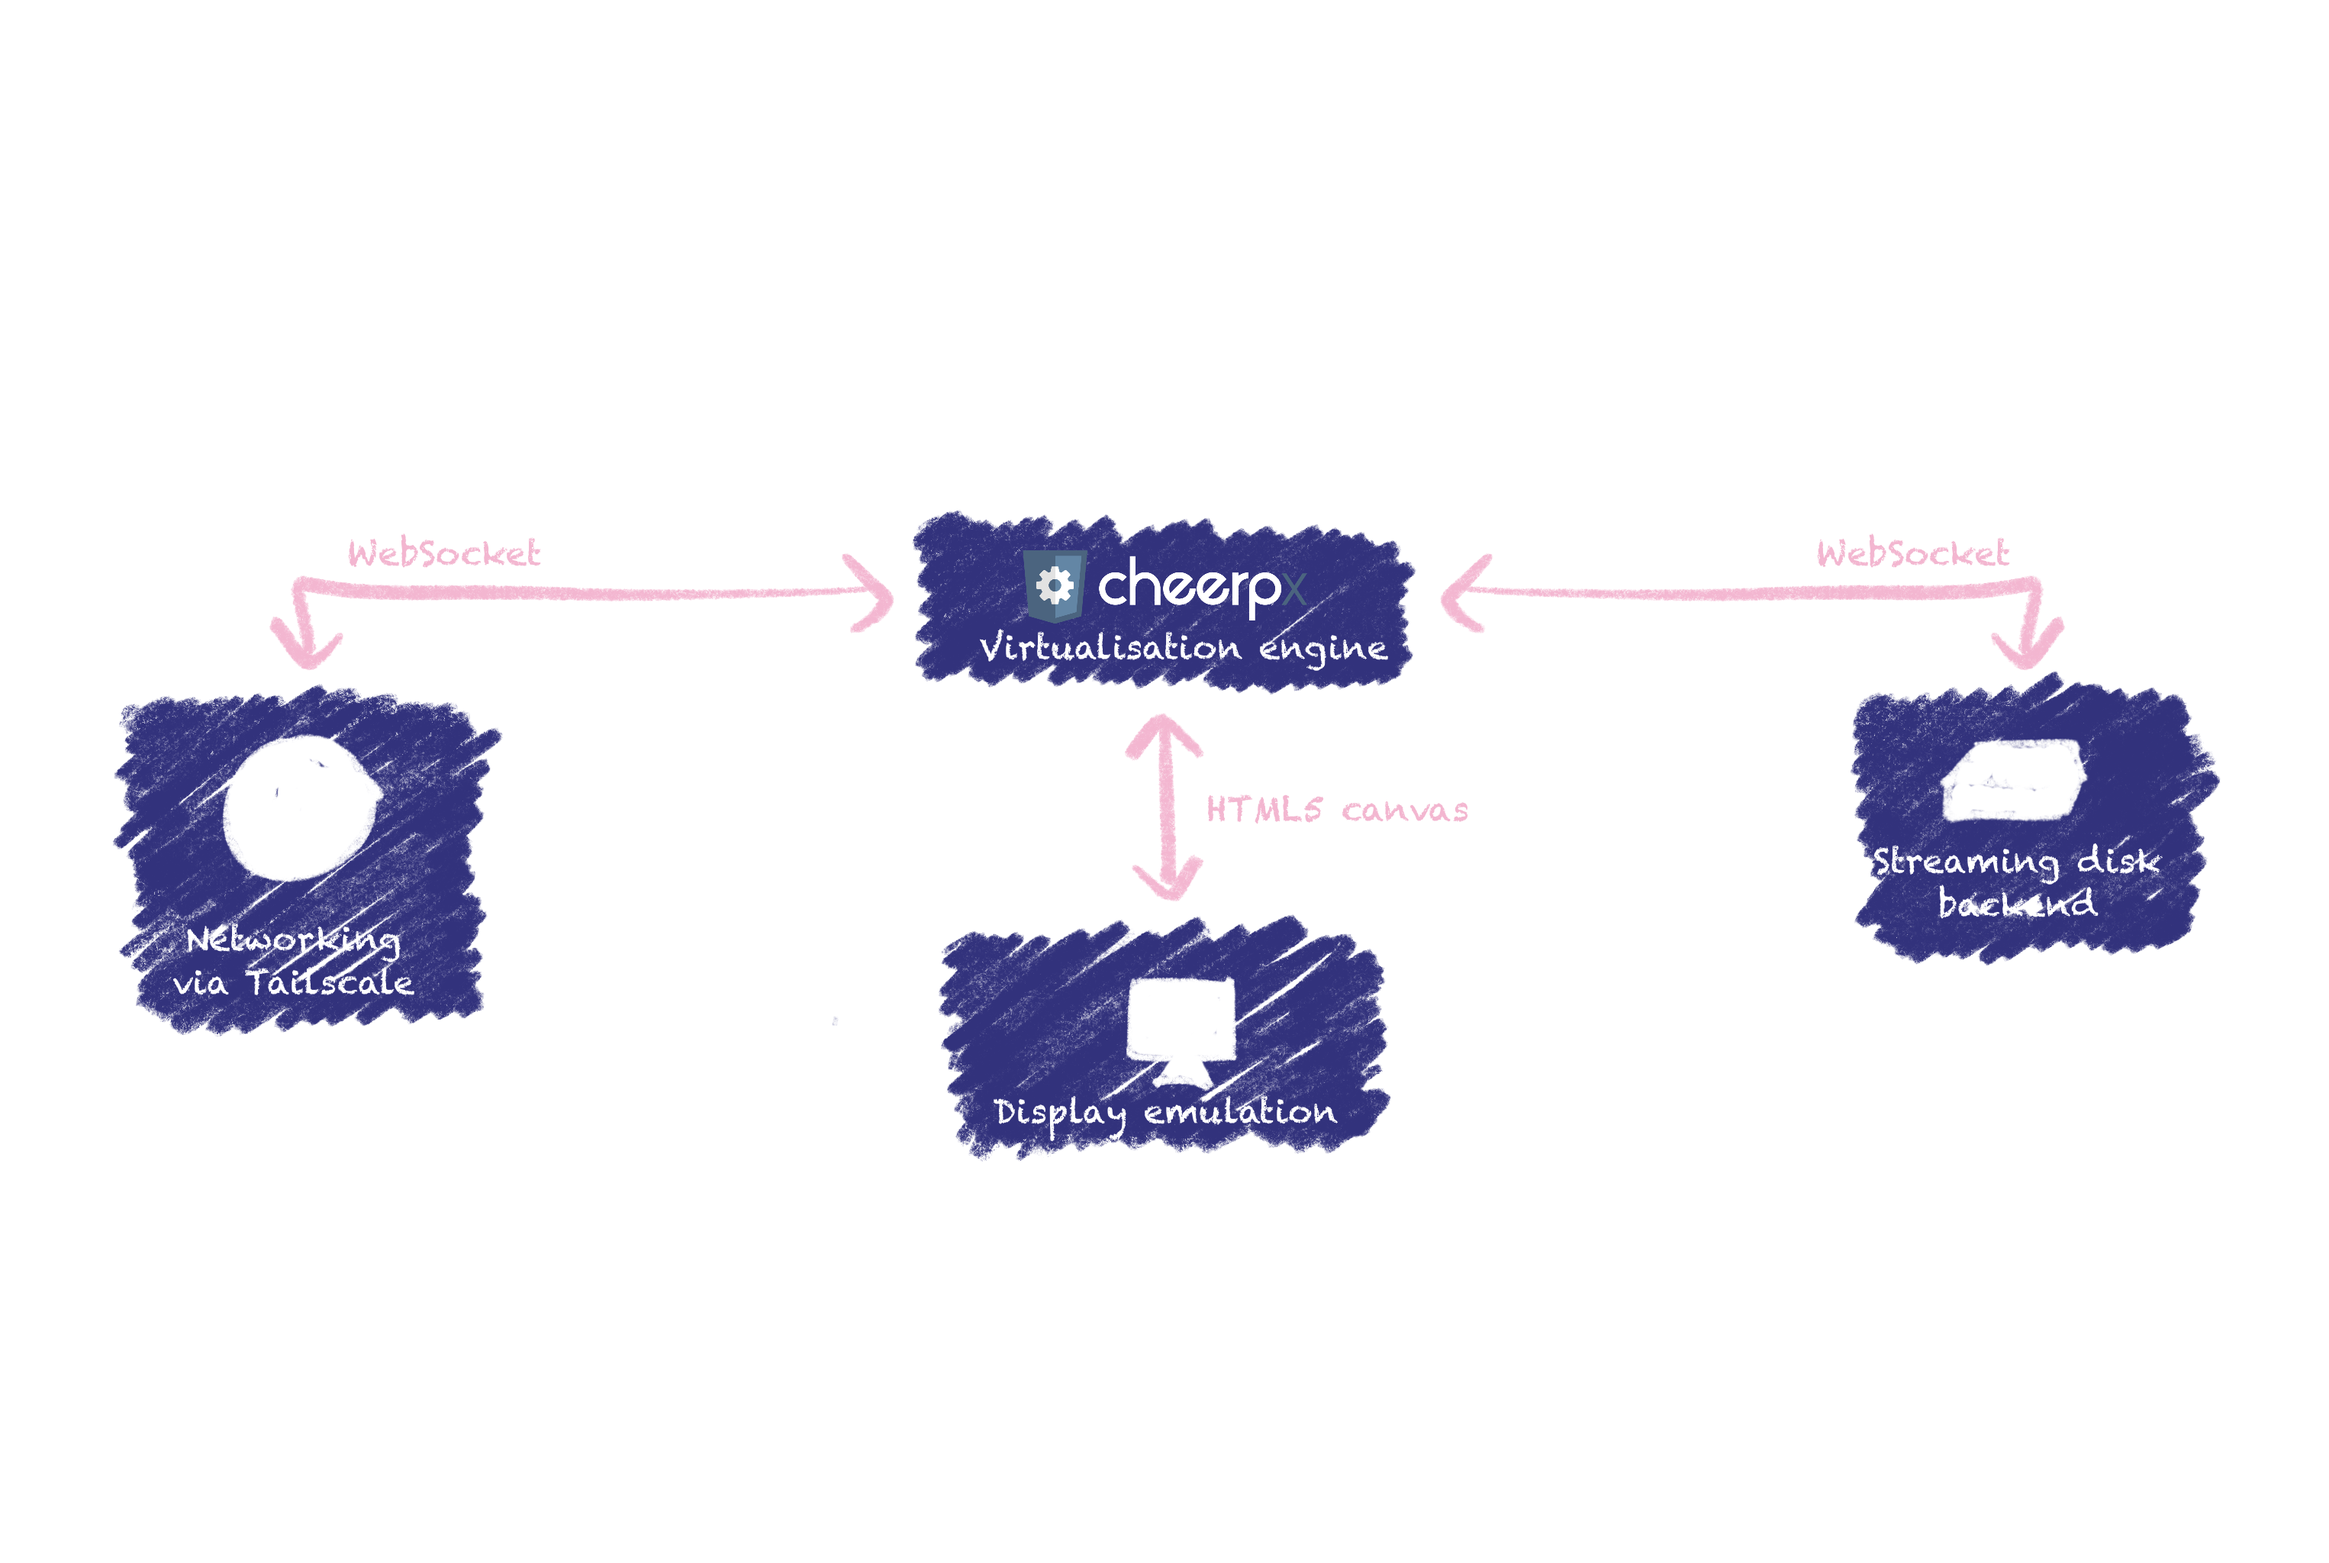
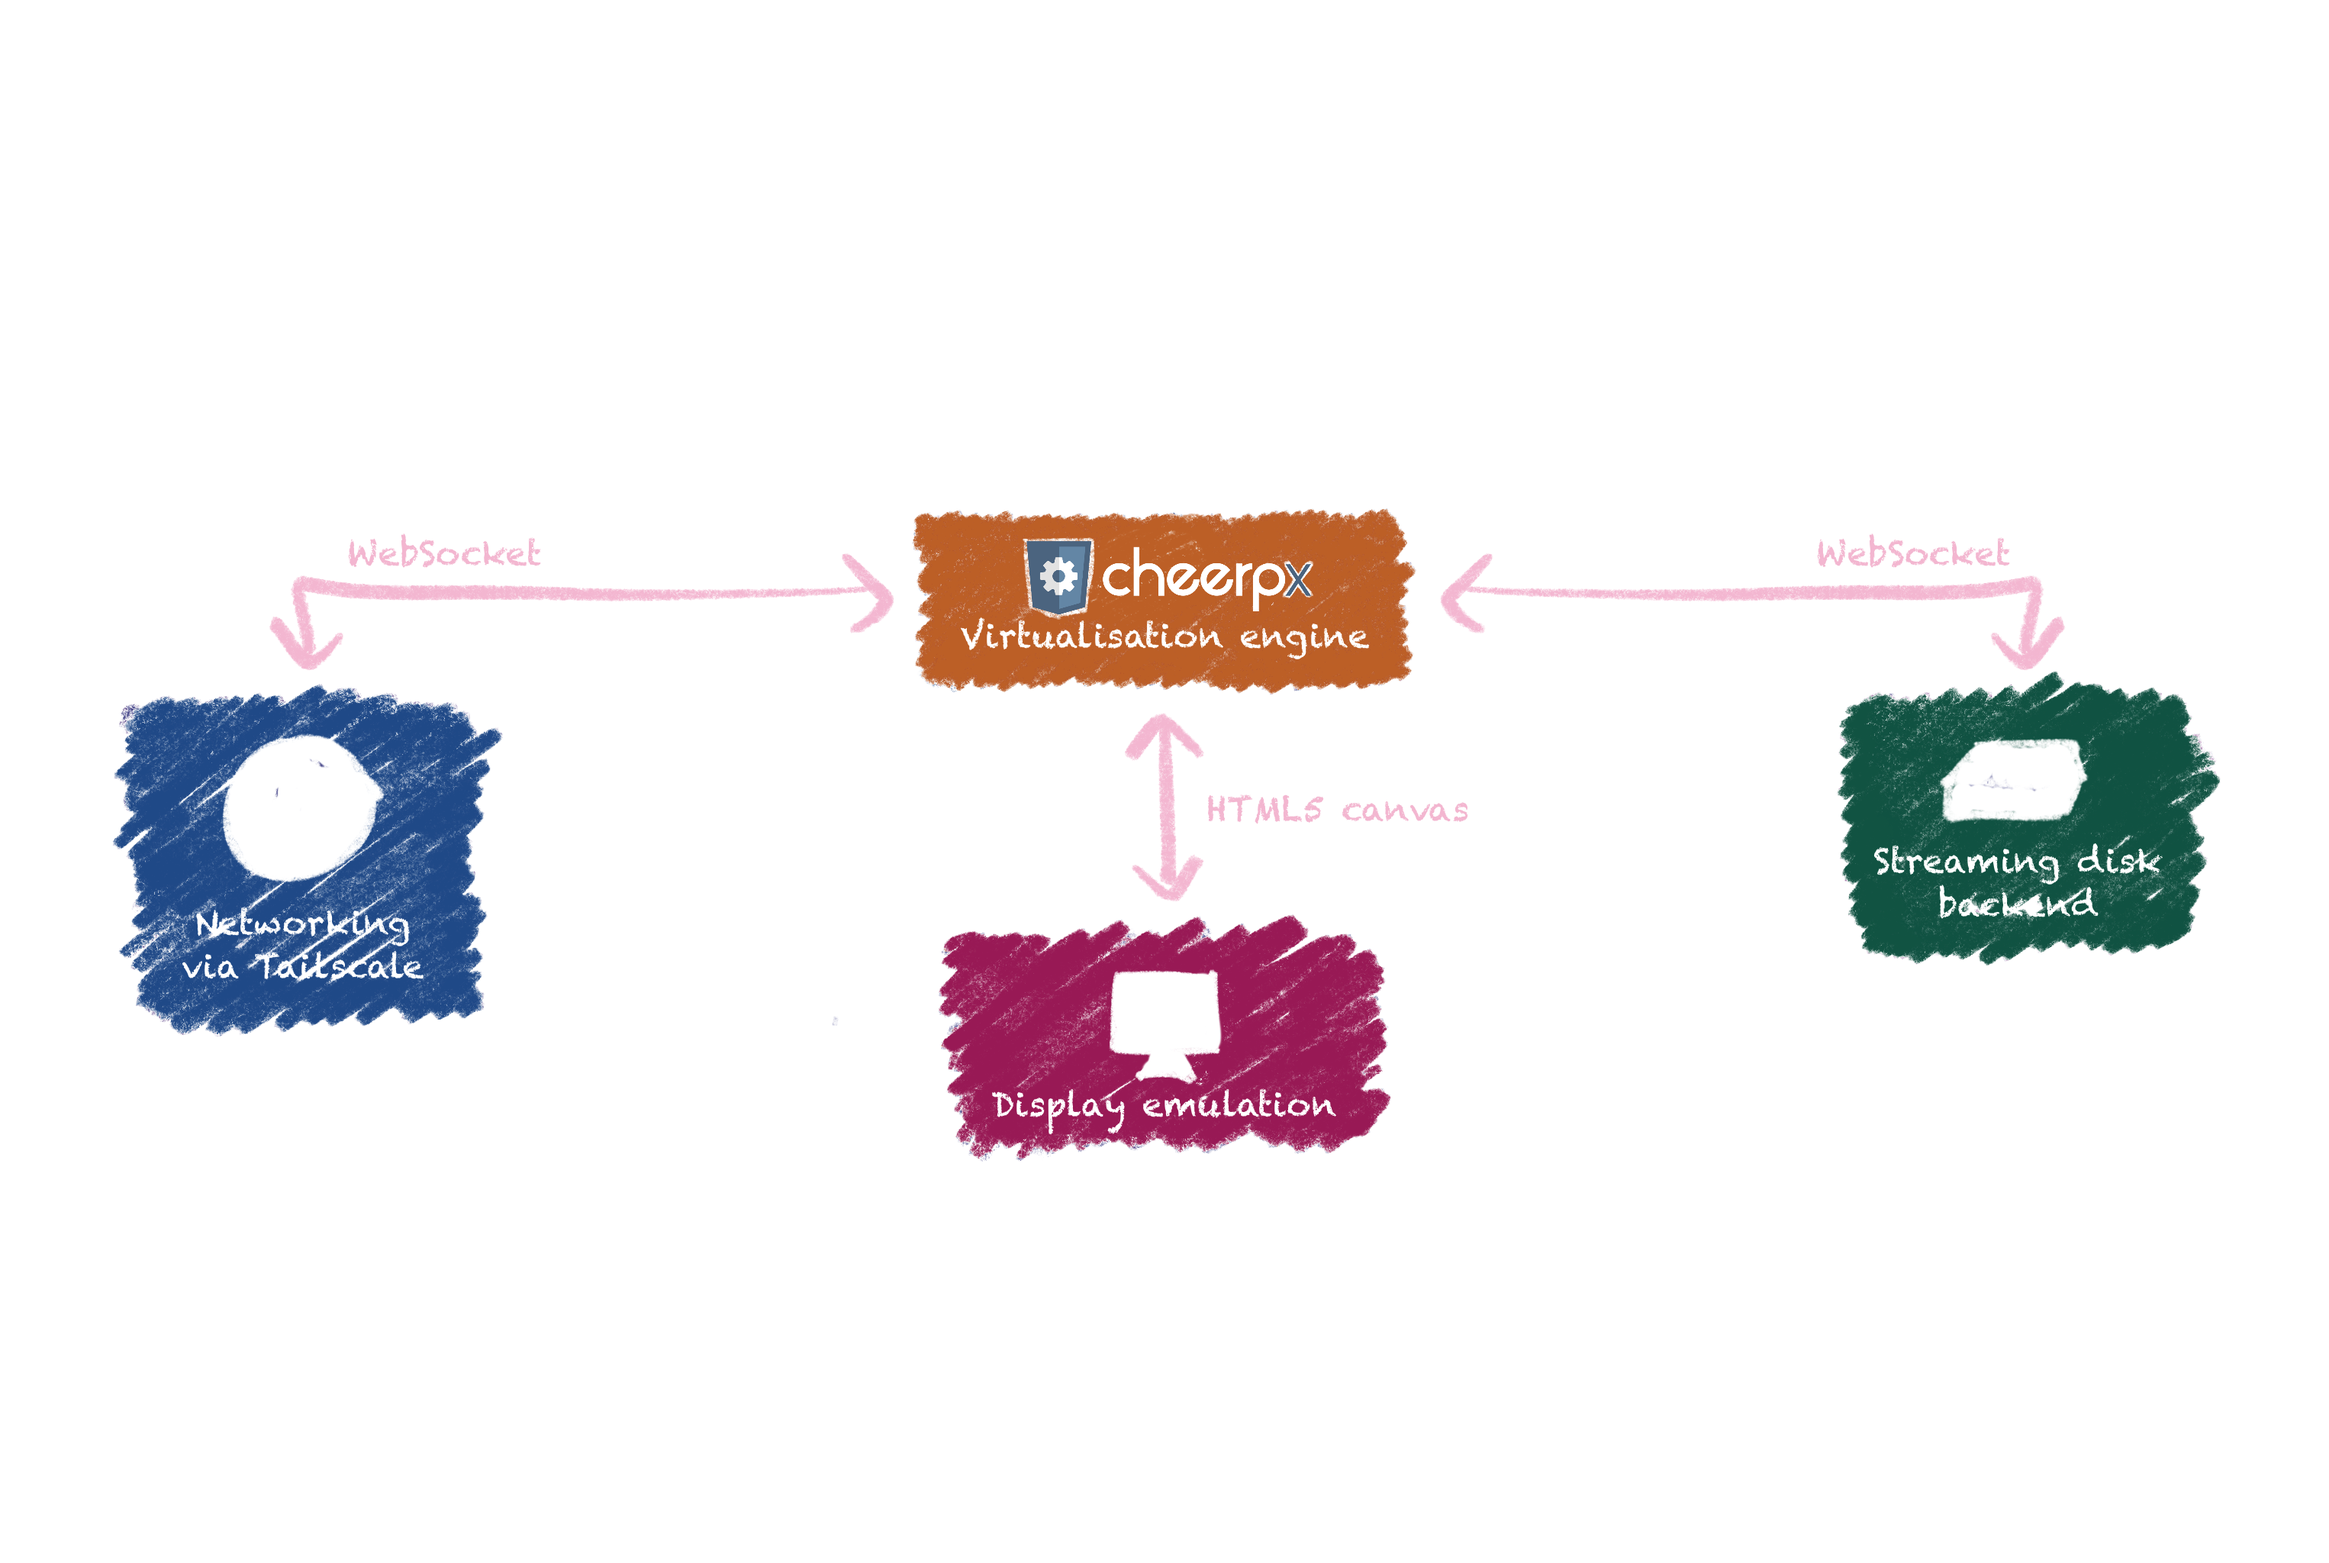
WebVM2: Add diagrams for all components

diff --git a/content/blog/webvm-2.0.md b/content/blog/webvm-2.0.md
@@ -38,7 +38,7 @@ Finally, the picture is completed by the private networking layer, implemented [
 
 ## CheerpX: secure x86 virtualization in WebAssembly
 
-\[ASSET? ENGINE WITH FILES ISOLATED?\]
+![CheerpX Architecture](./webvm_architecture_engine.png)
 
 CheerpX is an x86 virtualization engine in WebAssembly, designed to be robust, scalable, and performant. Since CheerpX is implemented exclusively using standard JavaScript / WebAssembly and Browser APIs, it is also extremely secure. CheerpX can be used like any other JavaScript library, either from our CDN or using the [NPM package](https://www.npmjs.com/package/@leaningtech/cheerpx).
 
@@ -50,6 +50,8 @@ CheerpX has been in development since 2017, and was first announced in 2020. Its
 
 ## Low-latency disk backend with private and local storage
 
+![Streaming Disk Backend Architecture](./webvm_architecture_disk.png)
+
 One of the primary ambitions of WebVM is to be scalable enough to support large, unmodified Linux distributions with good performance on arbitrary workflows. Working with large disk images was one of the main challenges we faced in the development of WebVM. The most common solution when trying to solve similar problems, is to prefetch the subset of the disk known to be useful for the specific demo, ahead of time. However, since the purpose of WebVM is to give complete control to the user, we cannot predict which, of the many available applications, REPLs or compilers will be started. In this scenario the whole model of pre-fetching breaks down.
 
 After several iterations, we settled on a solution that achieves our goals at scale. WebVM implements a streaming disk device that downloads 128kb disk blocks on-demand from a Cloudflare Worker backend, using WebSockets. The worker is executed in the nearest datacenter from the globally distributed CloudFlare CDN, ensuring the lowest possible latency. Using WebSockets further helps in maintaining a stable latency from challenging networking environments. This solution has proved to be performant, scalable and very cheap, providing per-block latencies measured to be around 20-40ms.
@@ -60,7 +62,7 @@ CheerpX also supports a plain HTTP disk backend that uses byte ranges to downloa
 
 ## Private networking via your own VPN
 
-\[ASSET NETWORKING\]
+![Networking Architecture](./webvm_architecture_networking.png)
 
 Adding support for general networking was another thorny problem in developing WebVM. Modern browsers do not provide access to low-level TCP/UDP sockets, which are the fundamental building block for most other networking protocols. This means that some form of network virtualization is required.
 
@@ -91,6 +93,8 @@ A very interesting use case that does not require an exit node is WebVM-to-WebVM
 Finally, using Tailscale also makes it possible for us to support the self-deployment scenarios and private networks common in the enterprise sector. A self-hostable open source implementation of the Tailscale protocol, called [Headscale](https://github.com/leaningtech/headscale), can be used in such cases to completely remove the need for third party networking infrastructure.
 
 ## The Linux KMS API and Xorg support
+
+![Graphics Architecture](./webvm_architecture_display.png)
 
 The last big improvement to WebVM for this release has been support for graphical applications, including booting a complete desktop environment. For now we have settled on using _i3_, a minimalistic window manager, to make sure the demo is enjoyable by most users, even on mobile devices, without consuming excessive amounts of data. Further improvements in our roadmap will make it practical to run the much heavier XFCE environment in future releases.
 
